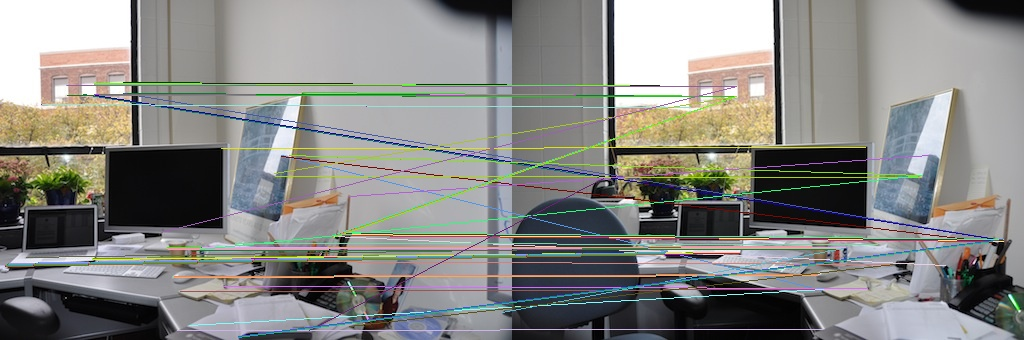
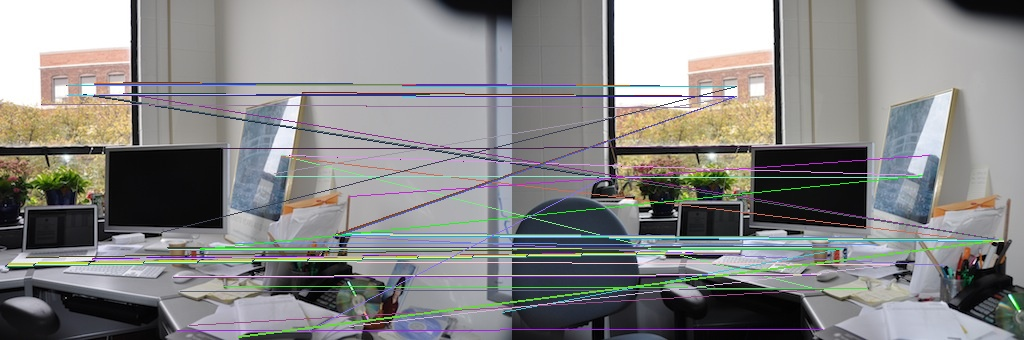
Added Homography function.

diff --git a/pano.py b/pano.py
@@ -14,7 +14,7 @@ class Panorama:
             self.ncc_thresh = 0.9995
         elif path == "DanaOffice":
             self.harris_thresh = 0.01
-            self.ncc_thresh = 0.9995 # 0.95
+            self.ncc_thresh = 0.9995  # 0.95
         return
 
     def load_images(self, path: str) -> np.ndarray:
@@ -37,10 +37,7 @@ class Panorama:
         )
 
     def harris_corner_detector(
-        self,
-        image: np.ndarray,
-        k: float = 0.04,
-        window_size: int = 3
+        self, image: np.ndarray, k: float = 0.04, window_size: int = 3
     ) -> np.ndarray:
         """Given an image, it finds the corners using the Harris Corner Detector.
 
@@ -93,7 +90,7 @@ class Panorama:
         image2: np.ndarray,
         corners1: list,
         corners2: list,
-        window_size: int = 5
+        window_size: int = 5,
     ) -> dict:
         """Given two images and their corners, it computes the normalized cross correlation between the two images and returns the correspondences.
 
@@ -121,8 +118,8 @@ class Panorama:
             y1 = max(corner1[1] - pad, 0)
             y2 = max(corner1[1] + pad + 1, window_size)
             patch1 = image1_pad[
-                x1 : x2,
-                y1 : y2,
+                x1:x2,
+                y1:y2,
             ]
 
             max_ncc = -1
@@ -136,8 +133,8 @@ class Panorama:
                 y1 = max(corner2[1] - pad, 0)
                 y2 = max(corner2[1] + pad + 1, window_size)
                 patch2 = image2_pad[
-                    x1 : x2,
-                    y1 : y2,
+                    x1:x2,
+                    y1:y2,
                 ]
                 # Calculate NCC using image patches
                 patch1_hat = patch1 / np.linalg.norm(patch1)
@@ -156,6 +153,27 @@ class Panorama:
                 # Store correspondence with highest NCC
                 correspondences[corner1] = best_corner
         return correspondences
+
+    def homography(self, points1: np.ndarray, points2: np.ndarray) -> np.ndarray:
+        """Given two sets of points, it computes the homography matrix.
+
+        Args:
+            points1 (np.ndarray): Points in the form [[x1, y1], [x2, y2], ...] of shape (4 x 2).
+            points2 (np.ndarray): Points in the form [[x1, y1], [x2, y2], ...] of shape (4 x 2).
+
+        Returns:
+            h_mat (np.ndarray): Homography matrix of shape (3 x 3).
+        """
+        H = np.zeros((points1.shape[0] * 2, 9))
+        for i, ((x1, y1), (x2, y2)) in enumerate(zip(points1, points2)):
+            # print(f"{i}, (({x1}, {y1}), ({x2}, {y2}))")
+            H[2 * i] = [x1, y1, 1, 0, 0, 0, -x2 * x1, -x2 * y1, -x2]
+            H[2 * i + 1] = [0, 0, 0, x1, y1, 1, -y2 * x1, -y2 * y1, -y2]
+        _, _, V = np.linalg.svd(H.T @ H)
+        h = V[-1]
+        h_mat = h.reshape(3, 3)
+        h_mat = h_mat / h_mat[2, 2]
+        return h_mat
 
     def ransac(
         self, correspondences: dict, threshold: int = 5, k: int = 100, N: int = 4
@@ -190,15 +208,15 @@ class Panorama:
             points2 = [tuple(correspondences.get(p)) for p in points1]
 
             # Compute homography matrix using these points
-            h, status = cv2.findHomography(np.asarray(points1), np.asarray(points2))
-            
+            h = self.homography(np.asarray(points1), np.asarray(points2))
+
             for corner1, corner2 in correspondences.items():
                 # Estimate point using homography
                 pt1 = np.array([corner1[0], corner1[1], 1])
                 pt2 = np.array([corner2[0], corner2[1], 1])
                 res = np.dot(h, pt1)
                 # res = np.matmul(h, pt1)
-                res = (res[:2]/res[2]).astype(int)
+                res = (res[:2] / res[2]).astype(int)
                 dist = np.linalg.norm(res - corner2)
 
                 # Check if outlier
@@ -240,7 +258,9 @@ class Panorama:
         _, final = stitcher.stitch((copy1, copy2))
         return final
 
-    def drawLines(self, image1: np.ndarray, image2: np.ndarray, points: dict, col1: tuple = None) -> None:
+    def drawLines(
+        self, image1: np.ndarray, image2: np.ndarray, points: dict, col1: tuple = None
+    ) -> None:
         """Draws lines between the points in the two images.
 
         Args:
@@ -258,13 +278,13 @@ class Panorama:
             col = col1 if col1 else (randint(0, 255), randint(0, 255), randint(0, 255))
             start_y, start_x = pt1
             end_y, end_x = pt2
-            end_x = int(end_x + vis.shape[1]/2)
+            end_x = int(end_x + vis.shape[1] / 2)
             end = (end_x, end_y)
             start = (start_x, start_y)
             cv2.line(vis, start, end, col, 1)
 
         return vis
-    
+
     def drawCorners(self, image: np.ndarray, corners: list) -> None:
         """Draw corners in the image.
 
@@ -303,13 +323,12 @@ class Panorama:
             cv2.imwrite(f"results/{fname}.jpg", image)
 
 
-
 def main():
     # DIR = "DanaHallWay1"
     DIR = "DanaOffice"
 
     pano = Panorama(DIR)
-    
+
     # Load images
     col, gray = pano.load_images(DIR)
     image1, image2 = col[0], col[1]
@@ -324,7 +343,9 @@ def main():
     # corners2 = choices(corners2, k=samples)
 
     # Find correspondences using NCC
-    correspondences = pano.normalized_cross_correlation(gray1, gray2, corners1, corners2)
+    correspondences = pano.normalized_cross_correlation(
+        gray1, gray2, corners1, corners2
+    )
 
     # Use RANSAC to estimate homography matrix and find inliers
     H, inliers, outliers = pano.ransac(correspondences)
@@ -338,11 +359,54 @@ def main():
     correspondences_vis = pano.drawLines(image1, image2, correspondences)
     inliers_vis = pano.drawLines(image1, image2, inliers)
     outliers_vis = pano.drawLines(image1, image2, outliers)
-    
-    pano.show_image([image1, image2, corners1_vis, corners2_vis, correspondences_vis, inliers_vis, outliers_vis, output], ["Input 1", "Input 2", "corners1", "corners2", "correspondences", "inliers", "outliers", "Output"])
+
+    pano.show_image(
+        [
+            image1,
+            image2,
+            corners1_vis,
+            corners2_vis,
+            correspondences_vis,
+            inliers_vis,
+            outliers_vis,
+            output,
+        ],
+        [
+            "Input 1",
+            "Input 2",
+            "corners1",
+            "corners2",
+            "correspondences",
+            "inliers",
+            "outliers",
+            "Output",
+        ],
+    )
 
     # Save results
-    pano.save_image([image1, image2, corners1_vis, corners2_vis, correspondences_vis, inliers_vis, outliers_vis, output], [f"{DIR}_input1", f"{DIR}_input2", f"{DIR}_corners1", f"{DIR}_corners2", f"{DIR}_correspondences", f"{DIR}_inliers", f"{DIR}_outliers", f"{DIR}_output"])
+    pano.save_image(
+        [
+            image1,
+            image2,
+            corners1_vis,
+            corners2_vis,
+            correspondences_vis,
+            inliers_vis,
+            outliers_vis,
+            output,
+        ],
+        [
+            f"{DIR}_input1",
+            f"{DIR}_input2",
+            f"{DIR}_corners1",
+            f"{DIR}_corners2",
+            f"{DIR}_correspondences",
+            f"{DIR}_inliers",
+            f"{DIR}_outliers",
+            f"{DIR}_output",
+        ],
+    )
+
 
 if __name__ == "__main__":
     main()
